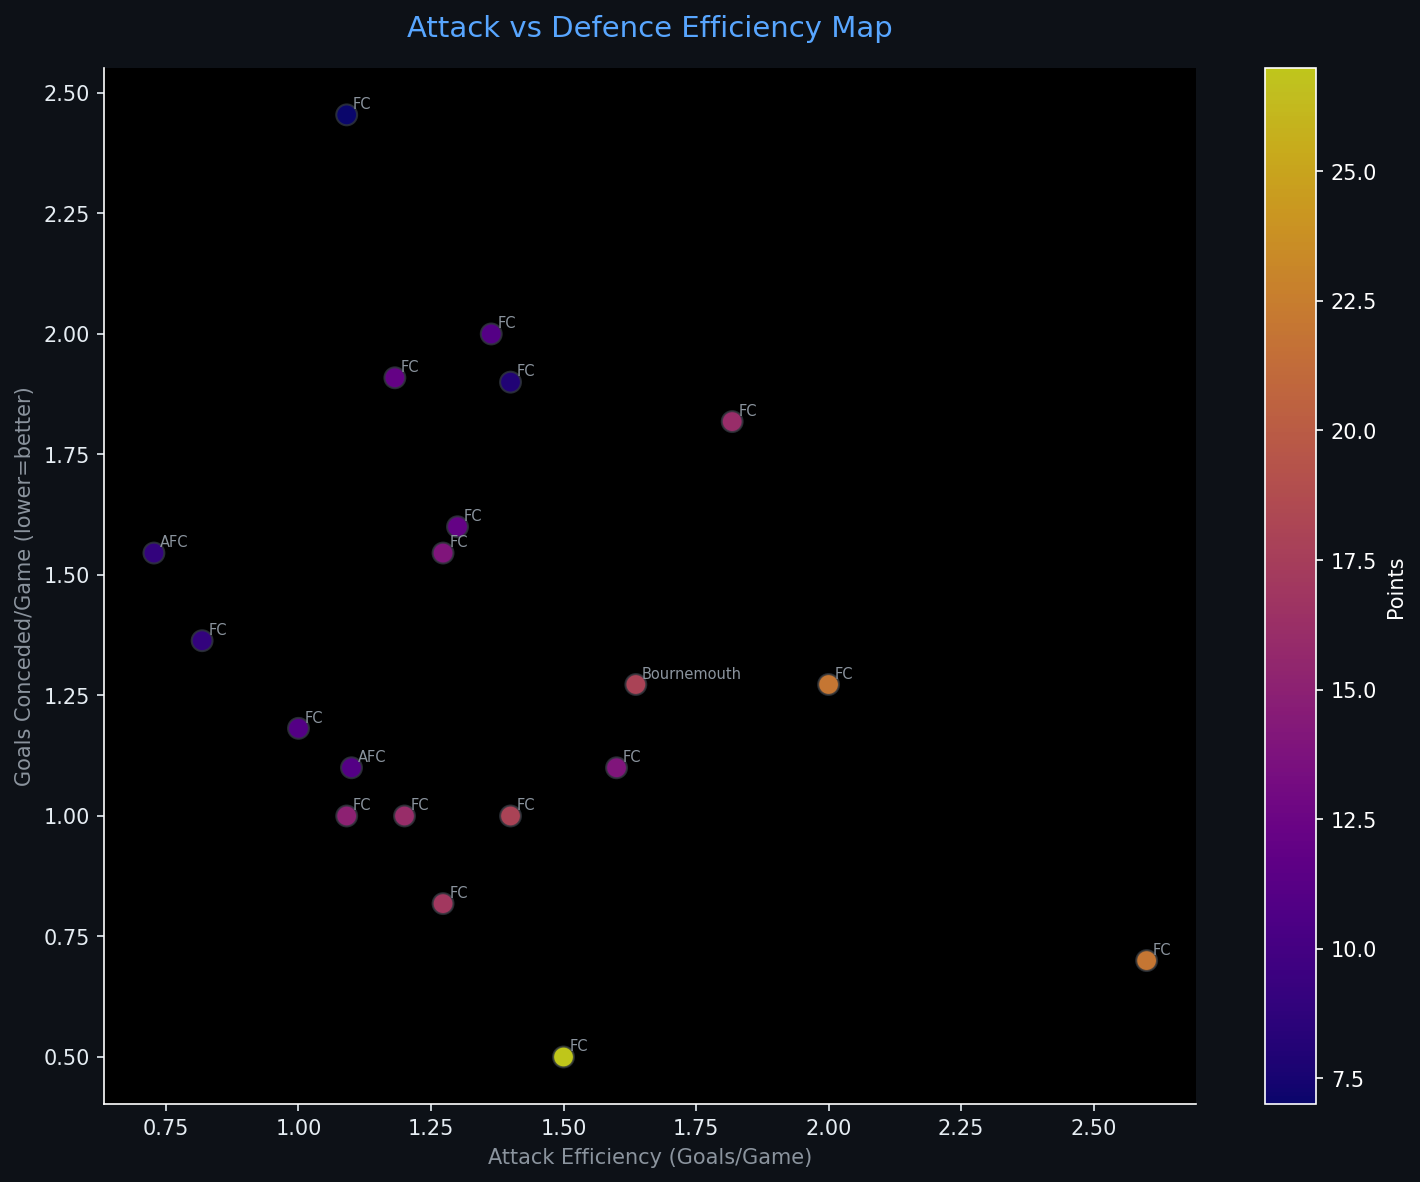
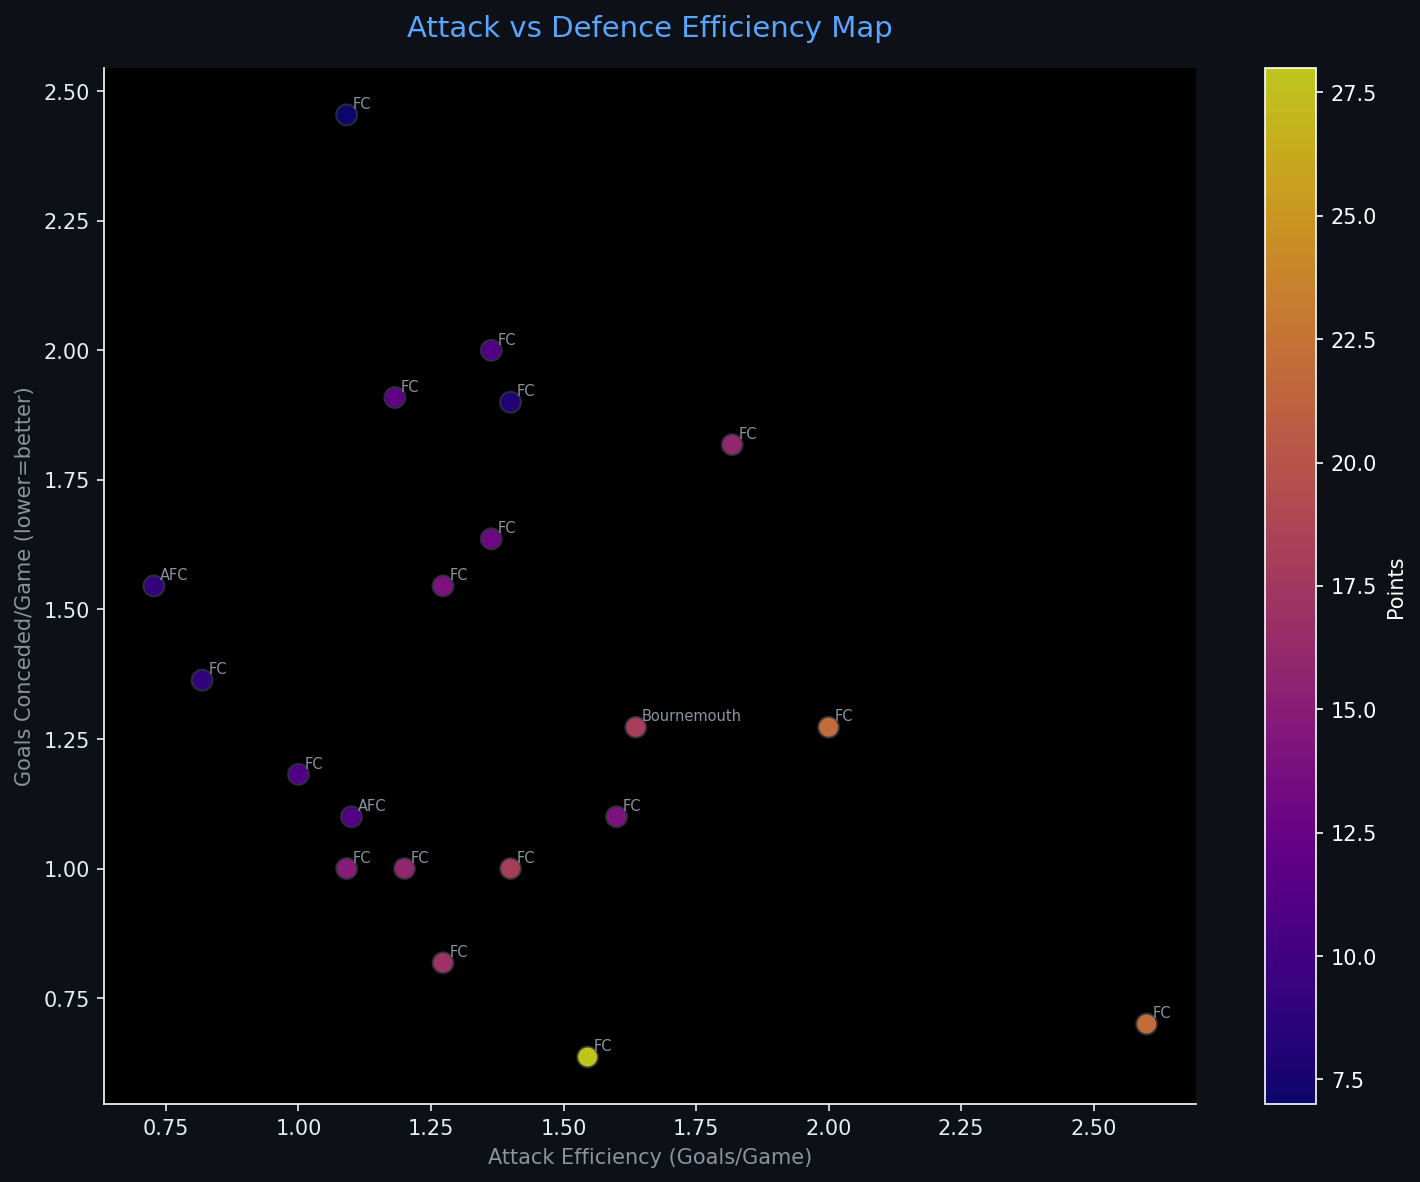
Automated ETL data update: 2026-11-21 22:39

diff --git a/reports/pipeline_report.html b/reports/pipeline_report.html
@@ -4,7 +4,7 @@
 <head>
     <meta charset="UTF-8">
     <meta name="viewport" content="width=device-width, initial-scale=1.0">
-    <title>Sports Data Pipeline Report — 2026-11-21 17:01</title>
+    <title>Sports Data Pipeline Report — 2026-11-21 22:39</title>
     <style>
         body { font-family: 'Segoe UI', sans-serif; background: #0d1117; color: #e6edf3; margin: 0; padding: 2rem; }
         h1   { color: #58a6ff; border-bottom: 1px solid #30363d; padding-bottom: 0.5rem; }
@@ -20,7 +20,7 @@
 </head>
 <body>
     <h1>⚽ Sports Data Pipeline — Automated Report</h1>
-    <p class="meta">Generated: 2026-11-21 17:01 UTC &nbsp;|&nbsp; Sport: <strong>football</strong> &nbsp;|&nbsp; Rows: <strong>20</strong></p>
+    <p class="meta">Generated: 2026-11-21 22:39 UTC &nbsp;|&nbsp; Sport: <strong>football</strong> &nbsp;|&nbsp; Rows: <strong>20</strong></p>
     <span class="badge">Pipeline v1.0.0</span>
     <h2>📊 Data Table</h2>
     <table class="dataframe data-table">
@@ -45,16 +45,16 @@
     <tr>
       <td>1</td>
       <td>Arsenal FC</td>
-      <td>10</td>
-      <td>27</td>
+      <td>11</td>
+      <td>28</td>
       <td>9</td>
-      <td>0</td>
       <td>1</td>
-      <td>15</td>
-      <td>5</td>
-      <td>0.900</td>
-      <td>2.700</td>
-      <td>0.900</td>
+      <td>1</td>
+      <td>17</td>
+      <td>7</td>
+      <td>0.818</td>
+      <td>2.545</td>
+      <td>0.855</td>
       <td>NaN</td>
     </tr>
     <tr>
@@ -210,16 +210,16 @@
     <tr>
       <td>12</td>
       <td>Newcastle United FC</td>
-      <td>10</td>
-      <td>12</td>
-      <td>3</td>
+      <td>11</td>
+      <td>13</td>
       <td>3</td>
       <td>4</td>
-      <td>13</td>
-      <td>16</td>
-      <td>0.300</td>
-      <td>1.200</td>
-      <td>0.398</td>
+      <td>4</td>
+      <td>15</td>
+      <td>18</td>
+      <td>0.273</td>
+      <td>1.182</td>
+      <td>0.410</td>
       <td>NaN</td>
     </tr>
     <tr>
@@ -360,9 +360,9 @@
         
         <tr><td>Total Columns</td><td>29</td></tr>
         
-        <tr><td>Null Values</td><td>90</td></tr>
+        <tr><td>Null Values</td><td>89</td></tr>
         
-        <tr><td>Run Timestamp (UTC)</td><td>2026-11-21T17:01:50.210049</td></tr>
+        <tr><td>Run Timestamp (UTC)</td><td>2026-11-21T22:39:50.624187</td></tr>
         
         <tr><td>ML Features Ready</td><td>False</td></tr>
         
